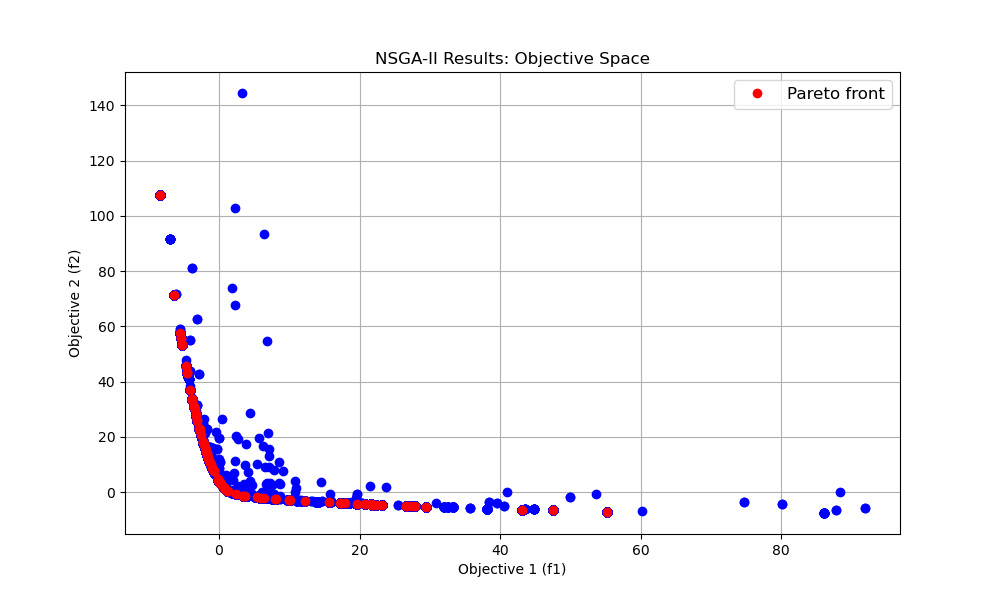
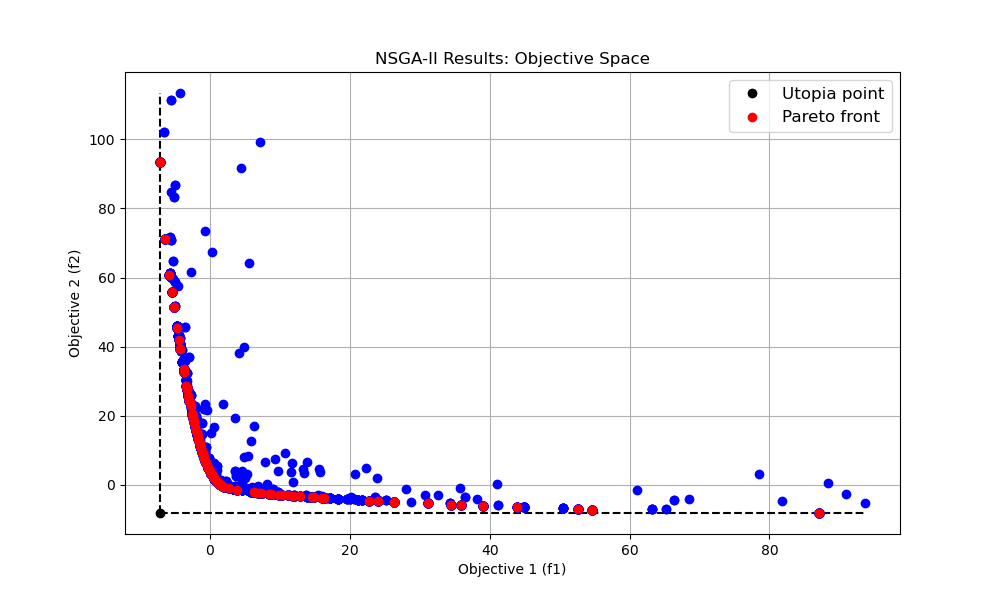
add utopia point to multi-objective analysis

diff --git a/Pareto_plot.py b/Pareto_plot.py
@@ -1,6 +1,7 @@
 import pandas as pd
 import matplotlib.pyplot as plt
 import ast
+import numpy as np
 
 def plot_results_from_csv(csv_filename1, csv_filename2):
     df = pd.read_csv(csv_filename1)
@@ -9,12 +10,25 @@ def plot_results_from_csv(csv_filename1, csv_filename2):
     df[['Objective 1', 'Objective 2']] = pd.DataFrame(df['Objective'].tolist(), index=df.index)
     f1_values = df['Objective 1'].values
     f2_values = df['Objective 2'].values
+    f1_all_max = max(f1_values)
+    f2_all_max = max(f2_values)
     
     df2 = pd.read_csv(csv_filename2)
     f1_pareto = df2['Objective 1'].values
     f2_pareto = df2['Objective 2'].values
+    f1_min = min(f1_pareto)
+    f2_min = min(f2_pareto)
+    
+    utopia_x = np.linspace(f1_min, f1_all_max, 100)
+    utopia_x2 = np.ones(len(utopia_x))*f2_min
+    utopia_y = np.linspace(f2_min, f2_all_max, 100)
+    utopia_y2 = np.ones(len(utopia_y))*f1_min
 
     plt.figure(figsize=(10, 6))
+    plt.plot(f1_min, f2_min, 'ko', label='Utopia point')
+    plt.plot(utopia_x, utopia_x2, '--k')
+    plt.plot(utopia_y2, utopia_y, '--k')
+    
     plt.plot(f1_values, f2_values, 'bo')
     plt.plot(f1_pareto, f2_pareto, 'ro', label='Pareto front')
     plt.title('NSGA-II Results: Objective Space')
@@ -24,6 +38,6 @@ def plot_results_from_csv(csv_filename1, csv_filename2):
     plt.grid(True)
     plt.show()
 
-csv_filename1 = 'try.csv'
+csv_filename1 = 'try_all_data.csv'
 csv_filename2 = 'try_Pareto.csv'
 plot_results_from_csv(csv_filename1, csv_filename2)

diff --git a/README.md b/README.md
@@ -1,5 +1,5 @@
 # PyNOTES
-PyNOTES (NTU Optimization Technical Evaluation toolS) is packed with several useful package for all kind of optimization (eg. simulator-based, equation-oriented).
+PyNOTES (NTU Optimization Technical Evaluation toolS) is an useful packages for various optimization technique tools(eg. simulator-based, equation-oriented).
 
 Specifically, Simulated annealing (SA), Particle Swarm Optimization (PSO), and Bayesian Optimization (BO) are for single objective optimization. Fuzzy, and NSGA2, on the other hand, are for multi-objective optimization. 
 
@@ -277,7 +277,7 @@ import win32com.client as win32
 import time
 import matplotlib.pyplot as plt
 import csv
-import  numpy_financial as npf
+import numpy_financial as npf
 import ast
 ```
 
